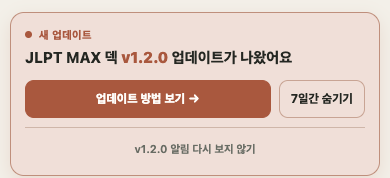
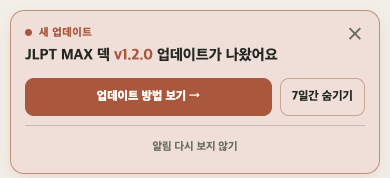
docs: show the update notice close button

diff --git a/docs/jlpt-gallery-updates/v1.2.0.html b/docs/jlpt-gallery-updates/v1.2.0.html
@@ -68,8 +68,8 @@
       <div style="margin-top:10px;color:#68736c;font-size:13px;">설정 패널만 잘라 비교한 일본어 글꼴·고저 악센트·재생 범위 설정</div>
     </div>
     <div style="margin-top:20px;padding:18px 20px;color:#1b211d;background:#eef8f2;border-left:8px solid #d8ff62;">
-      <strong style="color:#173b26;">기본 덱과 선택형 한자 확장에 같은 설정</strong><br>
-      <span style="color:#4e5852;">어휘·음성·실전 문제·참조표·한자 카드에서 같은 일본어 글꼴 설정을 공유함. 한자 확장도 v1.2.0 빌더로 다시 만들면 새 글꼴과 최신 연결 어휘가 함께 적용됨.</span>
+      <strong style="color:#173b26;">설정 패널은 답안 카드에서, 글꼴 선택은 전체 덱에</strong><br>
+      <span style="color:#4e5852;">설정 패널은 어휘·음성·실전 문제의 답안에서 열 수 있음. 여기서 고른 일본어 글꼴은 참조표와 한자 카드를 포함한 전체 덱에 공통 적용됨. 한자 확장도 v1.2.0 빌더로 다시 만들면 새 글꼴과 최신 연결 어휘가 함께 적용됨.</span>
     </div>
   </div>
 
@@ -120,8 +120,8 @@
       <strong>7일간 숨기기</strong>와 <strong>이 버전 알림 다시 보지 않기</strong>는 v1.1.1부터 제공됐음. 일부 Anki 환경에서는 쿠키와 localStorage가 서로 다른 상태를 읽어 닫은 알림이 다시 나타났음. v1.2.0은 두 저장소를 동기화하고, <strong>×</strong>는 이번 학습, <strong>7일간 숨기기</strong>는 7일, <strong>이 버전 알림 다시 보지 않기</strong>는 해당 버전 전체에 각각 적용되도록 고쳤음.
     </p>
     <div style="margin-top:24px;text-align:center;">
-      <img src="https://truthyblue.github.io/jlpt-max-deck/assets/releases/v1.2.0/gallery-v1.2.0-update-notice.png" width="390" height="178" loading="lazy" alt="기존 덱에 표시된 v1.2.0 업데이트 알림" style="display:block;width:100%;max-width:390px;height:auto;margin:0 auto;background:#f3f0e9;border:1px solid #38433d;border-radius:12px;">
-      <div style="margin-top:10px;color:#aeb8b2;font-size:13px;">기존 덱에서 v1.2.0 출시 응답을 재현한 실제 생성 카드 화면. 표시 버전만 QA 응답으로 재현했으며 카드 색상·레이아웃은 생성 결과 그대로임.</div>
+      <img src="https://truthyblue.github.io/jlpt-max-deck/assets/releases/v1.2.0/gallery-v1.2.0-update-notice.png" width="390" height="178" loading="lazy" alt="오른쪽 위 × 버튼이 추가된 v1.2.0 업데이트 알림" style="display:block;width:100%;max-width:390px;height:auto;margin:0 auto;background:#f3f0e9;border:1px solid #38433d;border-radius:12px;">
+      <div style="margin-top:10px;color:#aeb8b2;font-size:13px;">오른쪽 위 ×는 이번 학습에서만 알림을 닫음. 기존 덱에서 v1.2.0 출시 응답을 재현한 실제 생성 카드 화면이며, 표시 버전만 QA 응답으로 재현했음.</div>
     </div>
   </div>
 

diff --git a/test/test_gallery_update.py b/test/test_gallery_update.py
@@ -90,6 +90,9 @@ class GalleryUpdateTests(unittest.TestCase):
             "v1.1.1부터 제공됐음",
             "쿠키와 localStorage가 서로 다른 상태를 읽어",
             "×</strong>는 이번 학습",
+            "설정 패널은 어휘·음성·실전 문제의 답안에서 열 수 있음",
+            "참조표와 한자 카드를 포함한 전체 덱에 공통 적용됨",
+            "오른쪽 위 ×는 이번 학습에서만 알림을 닫음",
             "기존 덱에서 v1.2.0 출시 응답을 재현한 실제 생성 카드 화면",
             "업데이트 뒤 남은 예전 음성은 미디어 검사로 정리",
             "도구 → 미디어 검사",

diff --git a/docs/release-drafts/v1.2.0-github-release.md b/docs/release-drafts/v1.2.0-github-release.md
@@ -16,8 +16,9 @@
 - 학습자 뜻 표시 249개를 다듬고 새 예문 182개를 추가했으며, 신고된 실전 문제·
   문장과 `変わる` 예문, `持つ` 품사, `六本` 발음, `とお` 조수사 문제의
   `十つ` 표기도 `十`으로 교정했습니다.
-- 일본어 글꼴을 명조·고딕 중에서 선택하고 후리가나·해석·자동재생·배속을 한
-  패널에서 조절할 수 있습니다.
+- 어휘·음성·실전 문제의 답안 설정 패널에서 일본어 글꼴과 후리가나·해석·
+  자동재생·배속을 조절할 수 있습니다. 선택한 글꼴은 참조표와 한자 카드를
+  포함한 전체 덱에 적용됩니다.
 - 앞면만으로 뜻을 구분하기 어려운 `そば`, `開く`, `避ける`, `紅葉`, `なる`
   5개 표제어의 10개 카드에 짧은 빈칸 문맥을 추가했습니다.
 - 좁은 모바일 화면에서 오류 제보·사용 통계 팝업이 잘리지 않도록 보정했습니다.
@@ -49,10 +50,10 @@
 
 ![320픽셀 모바일 화면의 익명 사용 통계 팝업 전후 비교](https://raw.githubusercontent.com/truthyblue/jlpt-max-deck/main/site/assets/releases/v1.2.0/gallery-v1.2.0-usage-dialog.png)
 
-![기존 덱에 표시된 v1.2.0 업데이트 알림](https://raw.githubusercontent.com/truthyblue/jlpt-max-deck/main/site/assets/releases/v1.2.0/gallery-v1.2.0-update-notice.png)
+![오른쪽 위 × 버튼이 추가된 v1.2.0 업데이트 알림](https://raw.githubusercontent.com/truthyblue/jlpt-max-deck/main/site/assets/releases/v1.2.0/gallery-v1.2.0-update-notice.png)
 
-기존 덱에서 v1.2.0 출시 응답을 재현한 실제 생성 카드 화면입니다. 표시 버전만
-QA 응답으로 재현했으며 카드 색상과 레이아웃은 생성 결과 그대로입니다.
+오른쪽 위 ×는 이번 학습에서만 알림을 닫습니다. 기존 덱에서 v1.2.0 출시 응답을
+재현한 실제 생성 카드 화면이며, 표시 버전만 QA 응답으로 재현했습니다.
 
 ## 오류 제보 처리 결과
 
